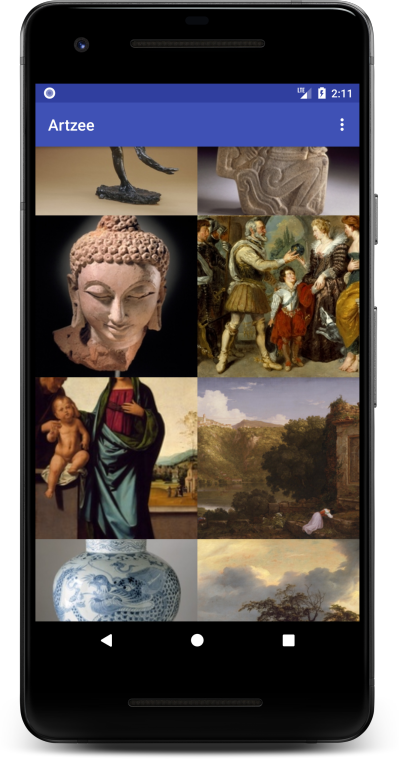
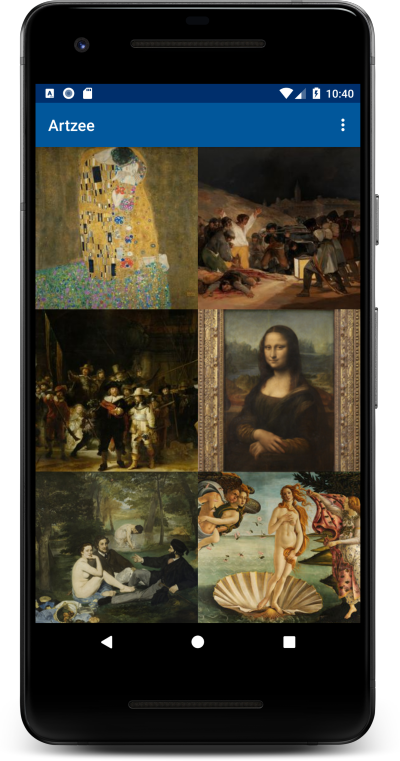
Update screenshots and tile images for projects, and project page layout. Minor resume corrections.

diff --git a/src/pages/resume.js b/src/pages/resume.js
@@ -17,8 +17,8 @@ class ResumePage extends React.Component {
 
     const work1 = [
       'Wrote Python scripts and simple GUI apps to automate repetitive tasks.',
-      'Oversaw and managed the transition of Electronic Data Interchange (EDI) transactions to HIPAA 5010 standard. Coordinated  with EDI and systems teams, and medical billers to ensure smooth transition with no downtime in payments.',
-      'Oversaw and managed upgrade of the Medicaid claims processing system to support ICD-10 standard. Identified system changes necessary to ensure a smooth transition for providers and performed testing to verify changes were correctly implemented.',
+      'Oversaw and managed the transition of Electronic Data Interchange (EDI) transactions from HIPAA 4010 to HIPAA 5010 standards. Coordinated  with EDI and systems teams, and medical billers to ensure a smooth transition with no downtime in payments.',
+      'Oversaw and managed upgrade of the Medicaid claims processing system to support ICD-10 standards. Identified system changes necessary to ensure a smooth transition for providers and performed testing to verify changes were correctly implemented.',
       'Researched and troubleshot issues with claims processing system.',
       'Trained EDI Coordinators.',
     ]

diff --git a/src/templates/project-page.js b/src/templates/project-page.js
@@ -27,7 +27,7 @@ const ProjectPageTemplate = props => {
                   flexWrap: 'wrap',
                 }}
               >
-                <h1 style={{ margin: 0 }}>{title}</h1>
+                <h1 style={{ marginRight: 8, marginBottom: 0 }}>{title}</h1>
                 <a
                   style={{
                     marginTop: 20,
@@ -41,7 +41,10 @@ const ProjectPageTemplate = props => {
               </div>
               <br />
             </header>
-            <div dangerouslySetInnerHTML={{ __html: project.html }} />
+            <div
+              id="project"
+              dangerouslySetInnerHTML={{ __html: project.html }}
+            />
           </div>
         </div>
       </Layout>

diff --git a/gatsby-config.js b/gatsby-config.js
@@ -38,13 +38,9 @@ module.exports = {
       resolve: `gatsby-transformer-remark`,
       options: {
         plugins: [
-          {
-            resolve: `gatsby-remark-images`,
-            options: {
-              maxWidth: 630,
-            },
-          },
           'gatsby-remark-copy-linked-files',
+          'gatsby-remark-unwrap-images',
+          `gatsby-remark-picture`,
         ],
         excerpt_separator: '<!-- end -->',
       },

diff --git a/src/assets/scss/layout/_project.scss b/src/assets/scss/layout/_project.scss
@@ -1,0 +1,7 @@
+#project {
+  img {
+    max-width: 100%;
+    height: auto;
+    margin: 0 _size(element-margin) * 0.25 _size(element-margin) * 0.5;
+  }
+}

diff --git a/src/assets/scss/main.scss b/src/assets/scss/main.scss
@@ -53,3 +53,4 @@
 	@import 'layout/footer';
 	@import 'layout/wrapper';
 	@import 'layout/resume';
+	@import 'layout/project';

diff --git a/src/assets/markdown/projects/recipe_assistant/recipe_assistant.md b/src/assets/markdown/projects/recipe_assistant/recipe_assistant.md
@@ -8,11 +8,14 @@ githubLink: 'recipe-assistant'
 
 An Android app that pulls recipes from TheMealDb, and can read the recipes out loud, triggered by buttons or voice commands.<!-- end -->
 
-With data provided by the [TheMealDb](https://www.themealdb.com/), this app uses Room and
-the Paging Library to offer continous scrolling while browsing recipes.
+With data provided by the [TheMealDb](https://www.themealdb.com/), this app uses Room and the Paging Library to offer continous scrolling while browsing recipes. It fetches the recipe thumbnails asynchronously, and display the recipe title, allowing smooth continuous user interaction.
 
-![Screenshot](./screenshot1.png)
+![Screenshot](./screenshot1.png)&nbsp;&nbsp;&nbsp;&nbsp;![Screenshot](./screenshot3.png)
 
 Once a recipe has been selected, voice recognition can be activated, which is implemented using [PocketSphinx](https://github.com/cmusphinx/pocketsphinx). Using either voice activation, or buttons, the user can have the recipe read out loud, which is implemented using [Android TextToSpeech](https://developer.android.com/reference/android/speech/tts/TextToSpeech).
 
 ![Screenshot](./screenshot2.png)
+
+The app has responsive layouts for both browsing and reading recipes.
+
+![Screenshot](./screenshot4.png)&nbsp;&nbsp;&nbsp;&nbsp;![Screenshot](./screenshot5.png)

diff --git a/src/assets/markdown/projects/artzee/artzee.md b/src/assets/markdown/projects/artzee/artzee.md
@@ -8,8 +8,15 @@ githubLink: 'Artzee'
 
 An Android app written in Kotlin to browse the Artsy public API, and set phone wallpaper.<!-- end -->
 
-This was a project to experiment with the Android Architecture Components. It uses Room and the Paging Library for continuous scrolling and caching of network data, and LiveData for UI updates, as well as Retrofit for networking and a light touch of RxJava/RxKotlin.
+This was a project to experiment with the Android Architecture Components. It uses Room and the Paging Library for continuous scrolling and caching of network data, and LiveData for UI updates, as well as Retrofit for networking and a light touch of RxJava/RxKotlin. The art is provided by [Artsy](https://www.artsy.net/).
 
-![Screenshot](./screenshot1.png)
+![Screenshot](./screenshot1.png)&nbsp;![Screenshot](./screenshot2.png)
 
-The art is provided by [Artsy](https://www.artsy.net/).
+The app uses prefetching to provide smooth scrolling, with placeholders and loading indicators to provide a pleasing visual experience for when the user is scrolling faster than the data can loaded.
+
+![Screenshot](./screenshot3.png)
+  
+  
+Responsive layouts for browsing and viewing art round out the user experience.
+
+![Screenshot](./screenshot5.png)&nbsp;![Screenshot](./screenshot4.png)

diff --git a/src/assets/markdown/projects/string_tuner/string_tuner.md b/src/assets/markdown/projects/string_tuner/string_tuner.md
@@ -11,3 +11,7 @@ An Android app for tuning instruments, written in Kotlin.<!-- end --> It has a c
 This app uses the Model-View-ViewModel UI architecture pattern. RxJava is used for the audio input to frequency detection processing chain, and LiveData is used for UI updates. [TarsosDSP](https://github.com/JorenSix/TarsosDSP) is used for the frequency detection.
 
 ![Screenshot](./screenshot1.png)
+![Screenshot](./screenshot2.png)
+![Screenshot](./screenshot3.png)
+![Screenshot](./screenshot4.png)
+![Screenshot](./screenshot5.png)
